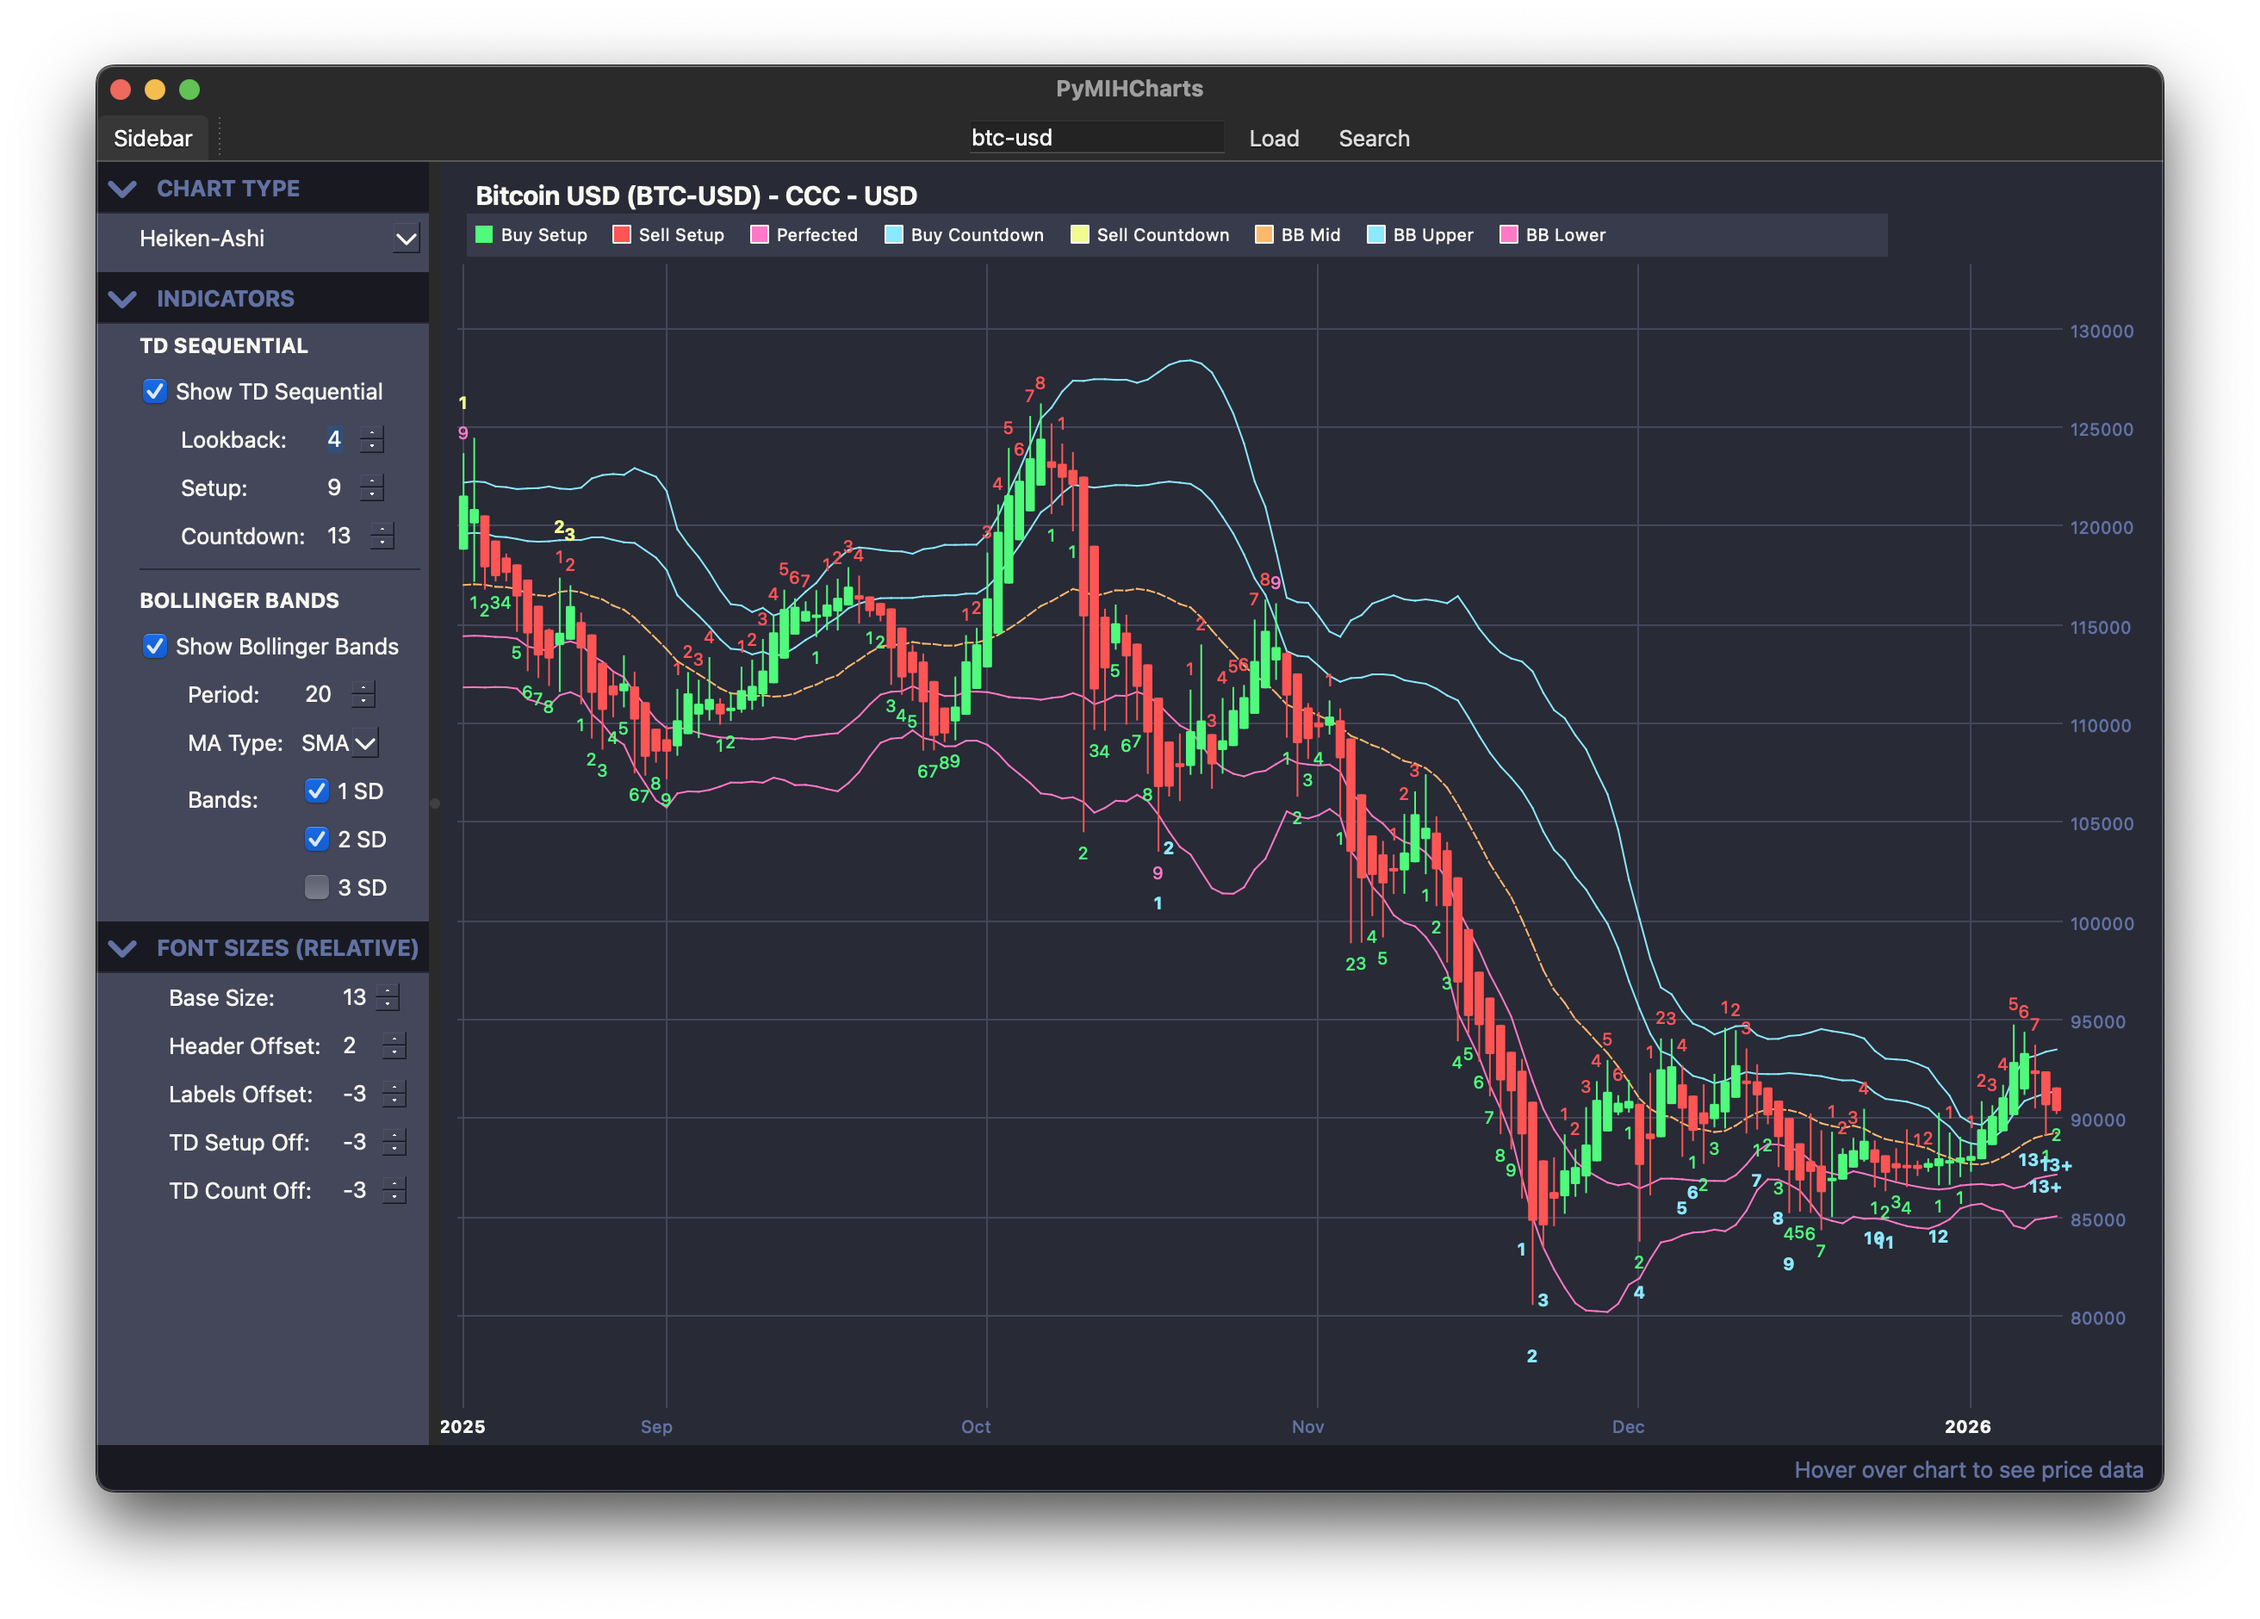
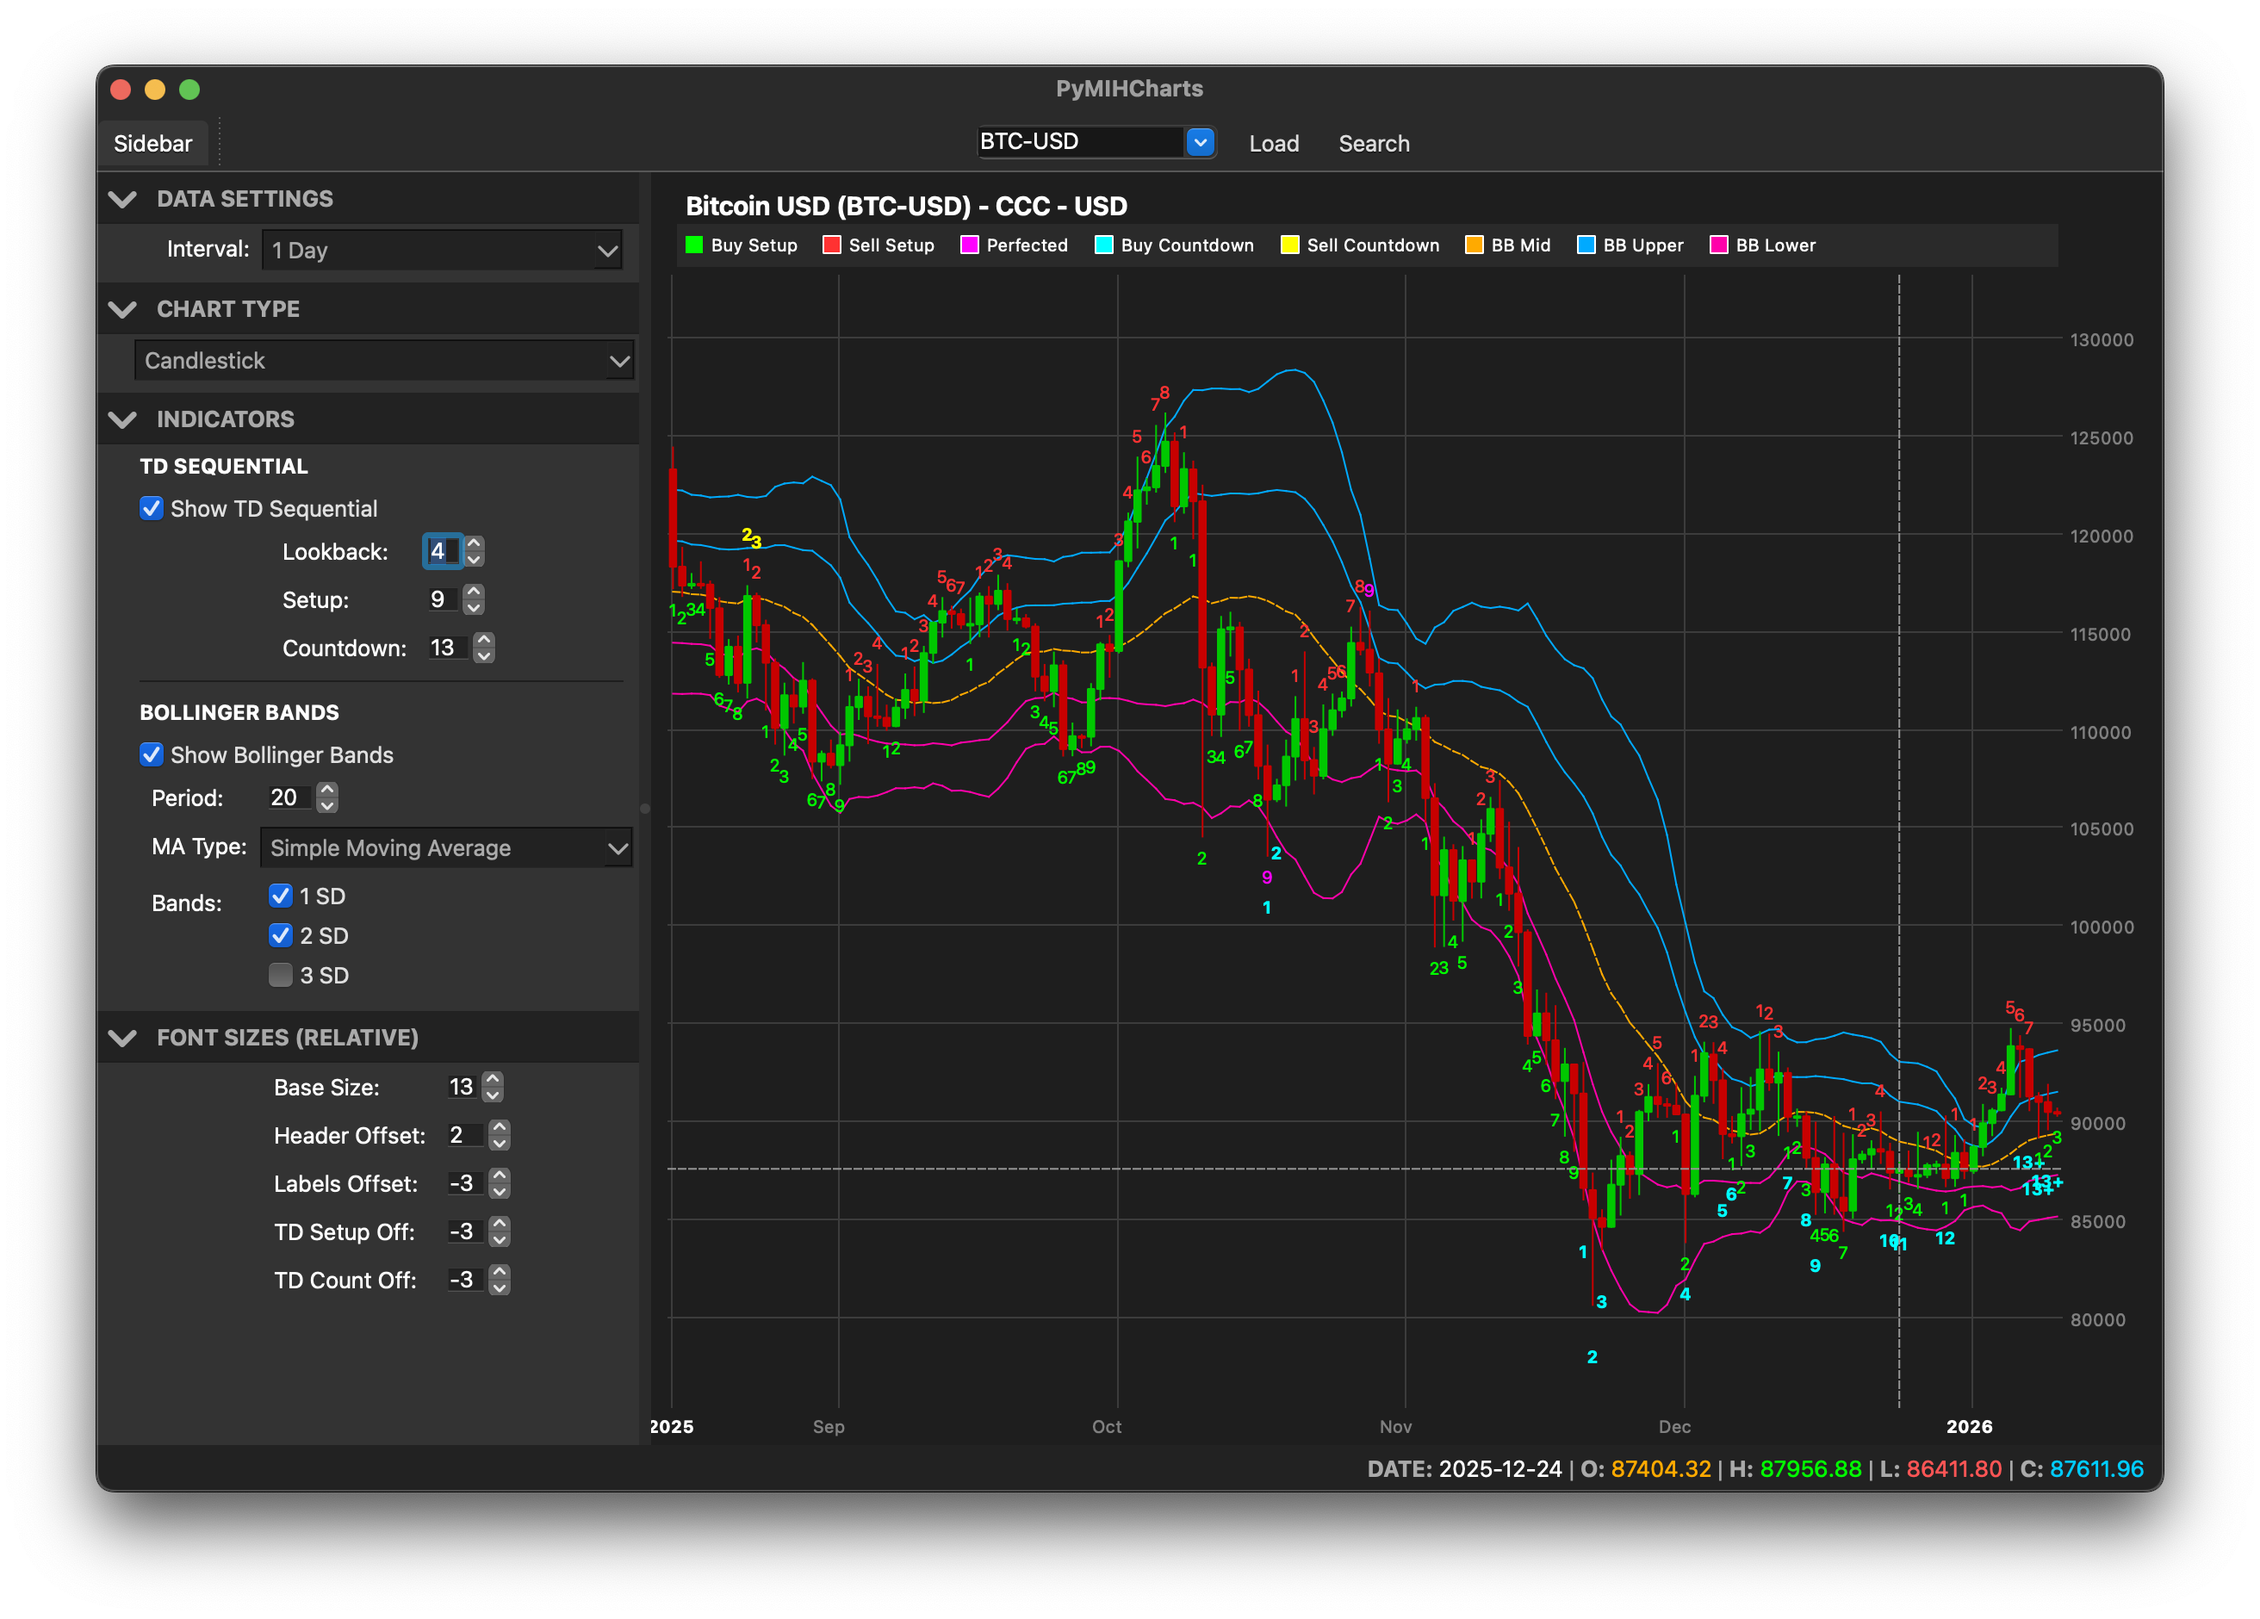
docs: update screenshots and documentation for v2.4.1
- Updated high-resolution screenshots for Default, Lilac, and Dracula themes.
- Updated README.md, CHANGELOG.md, and GEMINI.md to reflect recent UI enhancements and architecture updates.

diff --git a/GEMINI.md b/GEMINI.md
@@ -17,7 +17,7 @@ The application follows a strict Model-View-Controller (MVC) pattern combined wi
 
 ### Model Layer (`models/`)
 - **`data_manager.py`**: Manages data state and coordinates asynchronous processing.
-    - **`DataWorker`**: A `QObject` designed to run in a separate `QThread`. It handles ticker downloads and heavy technical indicator math.
+    - **`DataWorker`**: A `QObject` designed to run in a separate `QThread`. It handles ticker downloads, technical indicator math, and **Automatic Period Optimization** to ensure successful downloads across different intervals.
     - **`SearchWorker`**: A `QObject` designed to run in a separate `QThread`. It utilizes `yfinance`'s search feature to find symbols when a direct lookup fails.
     - **`DataManager`**: Controls worker lifecycles and emits signals (`data_ready`, `loading_error`, `search_results`) to the Controller.
 - **`recent_symbols.py`**: Handles persistent storage of user-entered symbols.
@@ -37,6 +37,7 @@ The application follows a strict Model-View-Controller (MVC) pattern combined wi
     - Groups settings into logical, toggleable sections (**Data Settings**, **Chart Type**, **Indicators**, **Font Sizes**).
     - Implements an interval selector with auto-reload logic.
     - Uses `QFormLayout` within sections for standardized label-field alignment.
+    - Employs targeted QSS for robust layout consistency and full text visibility in combo boxes.
     - Implements a centralized `_tooltips` dictionary and `set_tooltips_enabled()` method for global tooltip management.
 - **`search_dialog.py`**: A specialized dialog that presents a list of symbol search results to the user, allowing for selection and immediate loading.
 - **`main_view.py`**: The primary container that manages the application's overall layout and menu system.

diff --git a/README.md b/README.md
@@ -26,7 +26,7 @@ A high-performance, native Python desktop application for professional technical
     - **Adaptive Axis**: Date and Price axes that intelligently scale and format based on zoom levels.
     - **Advanced Interactions**: Mouse wheel zoom, click-drag panning, and **Pinch-to-Zoom** for touch devices.
 - **Data Integration**:
-    - **Multi-Interval Support**: Toggle between various timeframes ranging from 1 minute (`1m`) to 3 months (`3mo`).
+    - **Multi-Interval Support**: Toggle between 13 different timeframes ranging from 1 minute (`1m`) to 3 months (`3mo`), accessible via the new **DATA SETTINGS** sidebar section.
     - **Automatic Period Optimization**: The app intelligently selects the maximum allowed data history for each interval to ensure successful downloads.
     - **Automated Downloads**: Real-time historical daily and intraday data via `yfinance`.
 - **Smart Symbol Search**: If a ticker symbol is not found, the app automatically queries `yfinance` for matches and presents a selection dialog, ensuring users always find the right asset.

diff --git a/CHANGELOG.md b/CHANGELOG.md
@@ -2,6 +2,11 @@
 
 All notable changes to this project will be documented in this file.
 
+## [2.4.1] - 2026-01-10
+
+### Changed
+- **Documentation**: Updated `README.md` and project assets with high-resolution screenshots reflecting the latest UI enhancements, including the Multi-Interval Support and refined sidebar layouts.
+
 ## [2.4.0] - 2026-01-10
 
 ### Added
